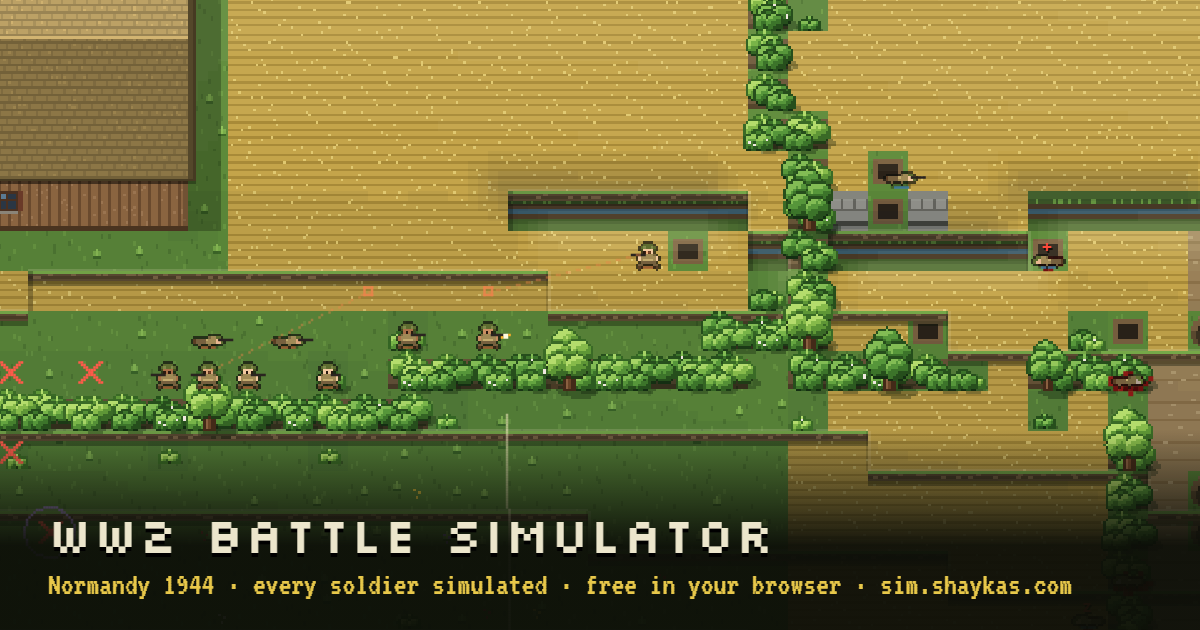
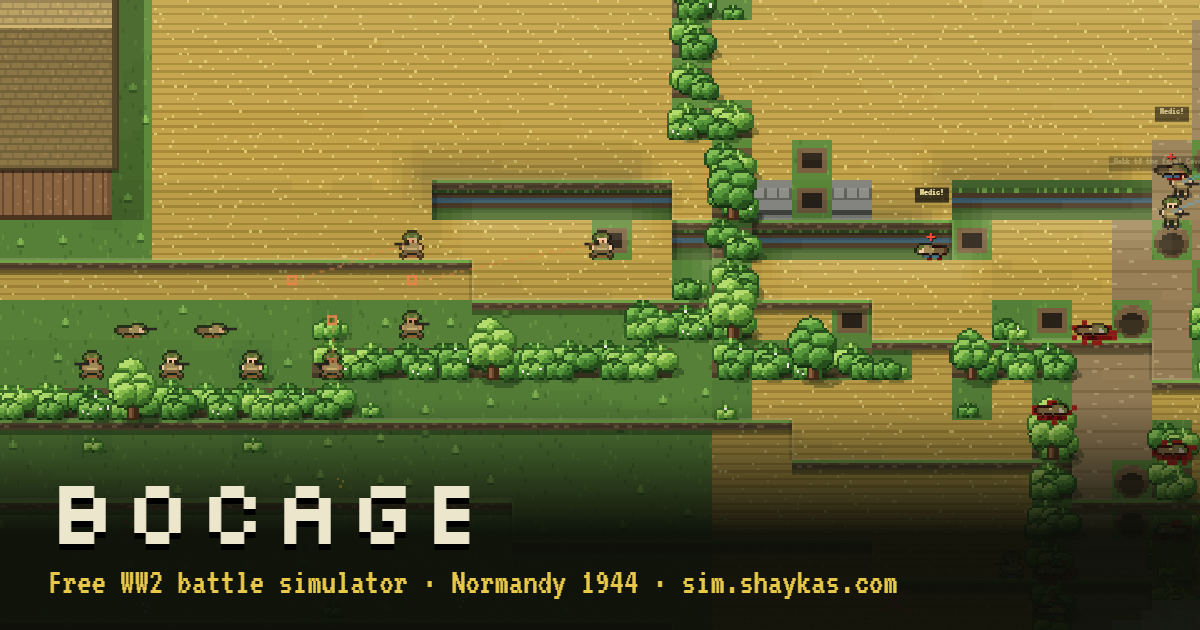
Embeds say Bocage: preview image, og/twitter titles and site name

diff --git a/site/index.html b/site/index.html
@@ -3,23 +3,23 @@
 <head>
 <meta charset="utf-8">
 <meta name="viewport" content="width=device-width, initial-scale=1, viewport-fit=cover">
-<title>Free WW2 Battle Simulator: Normandy 1944 in Your Browser</title>
+<title>Bocage: Free WW2 Battle Simulator, Normandy 1944</title>
 <meta name="description" content="Watch a Normandy 1944 squad battle play out soldier by soldier, then call in artillery. A free WW2 battle simulator in your browser, no install.">
 <meta name="author" content="Shay Kashif">
 <meta name="robots" content="index, follow">
 <link rel="canonical" href="https://sim.shaykas.com/">
-<meta property="og:title" content="Free WW2 Battle Simulator: Normandy 1944 in Your Browser">
+<meta property="og:title" content="Bocage: Free WW2 Battle Simulator, Normandy 1944">
 <meta property="og:description" content="Every man is simulated: squads flank and assault, medics crawl out under fire, houses fall in. Call in a barrage. Free, in your browser.">
 <meta property="og:type" content="website">
 <meta property="og:url" content="https://sim.shaykas.com/">
-<meta property="og:site_name" content="Shay Kashif">
+<meta property="og:site_name" content="Bocage">
 <meta property="og:image" content="https://sim.shaykas.com/og-battle.png">
 <meta property="og:image:type" content="image/png">
 <meta property="og:image:width" content="1200">
 <meta property="og:image:height" content="630">
-<meta property="og:image:alt" content="A pixel-art Normandy hedgerow battle with a barrage landing on a German position">
+<meta property="og:image:alt" content="Bocage: a pixel-art Normandy hedgerow battle with a barrage landing on a German position">
 <meta name="twitter:card" content="summary_large_image">
-<meta name="twitter:title" content="Free WW2 Battle Simulator: Normandy 1944 in Your Browser">
+<meta name="twitter:title" content="Bocage: Free WW2 Battle Simulator, Normandy 1944">
 <meta name="twitter:description" content="Every man is simulated: squads flank and assault, medics crawl out under fire, houses fall in. Call in a barrage. Free, in your browser.">
 <meta name="twitter:image" content="https://sim.shaykas.com/og-battle.png">
 <link rel="icon" type="image/svg+xml" href="/favicon.svg">

diff --git a/squad/viewer/index.html b/squad/viewer/index.html
@@ -8,20 +8,20 @@
 <meta name="author" content="Shay Kashif">
 <meta name="robots" content="index, follow">
 <link rel="canonical" href="https://sim.shaykas.com/squad/">
-<meta property="og:title" content="Bocage: WW2 Squad Combat Simulator, Normandy 1944">
+<meta property="og:title" content="Bocage: Free WW2 Battle Simulator, Normandy 1944">
 <meta property="og:description" content="A US rifle platoon attacks a German position in the Normandy hedgerows, June 1944, simulated soldier by soldier in your browser.">
 <meta property="og:type" content="website">
 <meta property="og:url" content="https://sim.shaykas.com/squad/">
-<meta property="og:site_name" content="Shay Kashif">
-<meta property="og:image" content="https://sim.shaykas.com/og-squad.png">
+<meta property="og:site_name" content="Bocage">
+<meta property="og:image" content="https://sim.shaykas.com/og-battle.png">
 <meta property="og:image:type" content="image/png">
 <meta property="og:image:width" content="1200">
 <meta property="og:image:height" content="630">
-<meta property="og:image:alt" content="A pixel-art American soldier beside the words Battle Simulation">
+<meta property="og:image:alt" content="Bocage: a pixel-art Normandy hedgerow battle with a barrage landing on a German position">
 <meta name="twitter:card" content="summary_large_image">
-<meta name="twitter:title" content="Bocage: WW2 Squad Combat Simulator, Normandy 1944">
+<meta name="twitter:title" content="Bocage: Free WW2 Battle Simulator, Normandy 1944">
 <meta name="twitter:description" content="A US rifle platoon attacks a German position in the Normandy hedgerows, June 1944, simulated soldier by soldier in your browser.">
-<meta name="twitter:image" content="https://sim.shaykas.com/og-squad.png">
+<meta name="twitter:image" content="https://sim.shaykas.com/og-battle.png">
 <link rel="icon" type="image/svg+xml" href="favicon.svg">
 <meta name="theme-color" content="#16180f">
 <link rel="preconnect" href="https://fonts.googleapis.com">

diff --git a/site/ww2-battle-simulator/index.html b/site/ww2-battle-simulator/index.html
@@ -12,12 +12,12 @@
 <meta property="og:description" content="Every soldier is simulated: squads flank and assault, medics crawl out under fire, houses fall in. Free, in your browser.">
 <meta property="og:type" content="article">
 <meta property="og:url" content="https://sim.shaykas.com/ww2-battle-simulator/">
-<meta property="og:site_name" content="Shay Kashif">
+<meta property="og:site_name" content="Bocage">
 <meta property="og:image" content="https://sim.shaykas.com/og-battle.png">
 <meta property="og:image:type" content="image/png">
 <meta property="og:image:width" content="1200">
 <meta property="og:image:height" content="630">
-<meta property="og:image:alt" content="A pixel-art Normandy hedgerow battle with a barrage landing on a German position">
+<meta property="og:image:alt" content="Bocage: a pixel-art Normandy hedgerow battle with a barrage landing on a German position">
 <meta name="twitter:card" content="summary_large_image">
 <meta name="twitter:title" content="How the WW2 Battle Simulator Works: Bocage, Normandy 1944">
 <meta name="twitter:description" content="Every soldier is simulated: squads flank and assault, medics crawl out under fire, houses fall in. Free, in your browser.">
